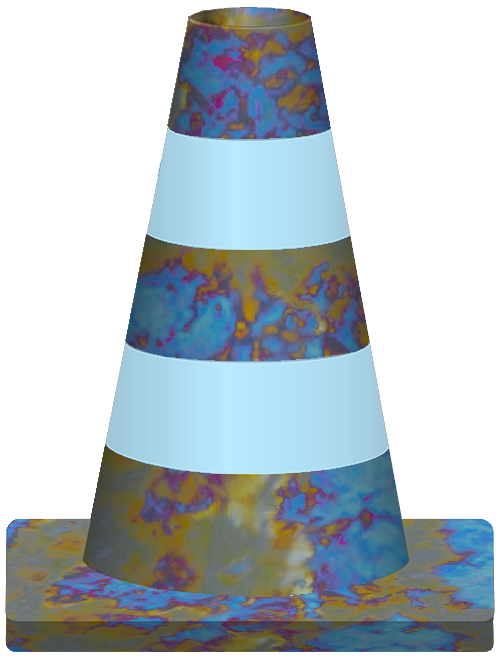
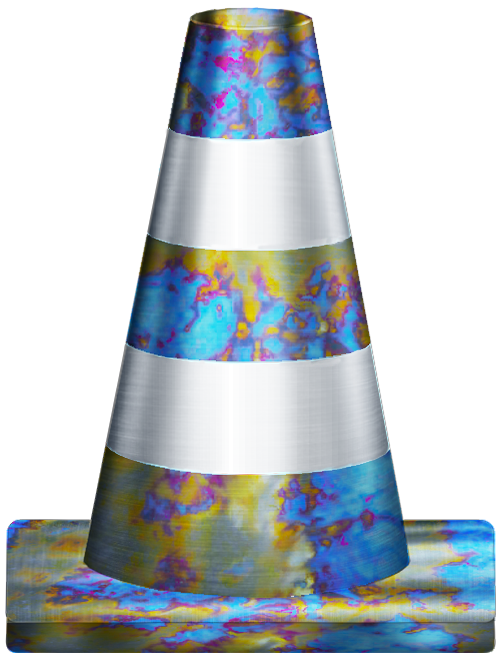
Kermit
- Fixed leaderboard
- Fixed gold cone

- Changed gold + case hardened design thanks to likedom

- added 2 new skins thanks to likedom

diff --git a/public/leaderboard.html b/public/leaderboard.html
@@ -5,37 +5,33 @@
     <meta name="viewport" content="width=device-width, initial-scale=1.0">
     <title>ConeFlip Leaderboard</title>
     <style>
-        /* Reset default margins and paddings */
         * {
             margin: 0;
             padding: 0;
             box-sizing: border-box;
         }
 
-        /* Leaderboard container */
         .leaderboard-container {
             position: fixed;
-            top: 20px; /* Distance from the top */
-            right: 20px; /* Distance from the right */
-            width: 350px; /* Adjust width as needed */
-            background: rgba(0, 0, 0, 0.6); /* Semi-transparent black background */
+            top: 20px;
+            right: 20px;
+            width: 350px;
+            background: rgba(0, 0, 0, 0.6);
             border-radius: 10px;
             padding: 10px 15px;
             box-shadow: 0 4px 8px rgba(0, 0, 0, 0.3);
-            z-index: 1000; /* Ensure it stays on top */
+            z-index: 1000;
             font-family: 'Segoe UI', Tahoma, Geneva, Verdana, sans-serif;
             color: #fff;
         }
 
-        /* Title */
         .leaderboard-container h2 {
             font-size: 18px;
             text-align: center;
             margin-bottom: 10px;
-            color: #FFD700; /* Gold color for title */
+            color: #94B658;
         }
 
-        /* Leaderboard table */
         table {
             width: 100%;
             border-collapse: collapse;
@@ -51,19 +47,17 @@
         th {
             border-bottom: 1px solid #555;
             font-weight: normal;
-            color: #FFD700; /* Gold color for headers */
+            color: #94B658;
         }
 
         tr:nth-child(even) {
             background: rgba(255, 255, 255, 0.1);
         }
 
-        /* Top player row */
         .top-player {
-            background: rgba(255, 215, 0, 0.2); /* Light gold tint */
+            background: rgba(255, 215, 0, 0.2);
         }
 
-        /* Golden cone icon */
         .golden-cone {
             width: 16px;
             height: 16px;
@@ -71,7 +65,10 @@
             margin-right: 6px;
         }
 
-        /* Responsive adjustments */
+        .placeholder-row {
+            color: rgba(255, 255, 255, 0.3);
+        }
+
         @media (max-width: 600px) {
             .leaderboard-container {
                 width: 200px;
@@ -108,102 +105,76 @@
                     <th>WR (%)</th>
                 </tr>
             </thead>
-            <tbody>
-                <!-- Leaderboard data will be inserted here -->
-            </tbody>
+            <tbody></tbody>
         </table>
     </div>
-
-    <!-- Golden Cone Image (Hidden Clone for Cloning) -->
     <img id="golden-cone-icon" src="skins/cone_gold.png" alt="Golden Cone" style="display: none;">
-
-    <!-- Include Socket.io client library -->
     <script src="/socket.io/socket.io.js"></script>
-
     <script>
-        // Connect to server via Socket.io
         const socket = io();
 
-        /**
-         * Function to render the leaderboard table.
-         * @param {Object} data - The leaderboard data and top player.
-         */
         function renderLeaderboard(data) {
             const tableBody = document.querySelector('#leaderboard-table tbody');
-            tableBody.innerHTML = ''; // Clear existing data
+            tableBody.innerHTML = '';
 
-            if (!data) {
-                const row = document.createElement('tr');
-                const cell = document.createElement('td');
-                cell.colSpan = 3; // Updated from 4 to 3
-                cell.textContent = 'No data available.';
-                cell.style.textAlign = 'center';
-                cell.style.color = '#fff';
-                row.appendChild(cell);
-                tableBody.appendChild(row);
-                return;
+            if (!data || !data.length) {
+                data = [];
             }
 
-            // Display only top 5 players
             const topPlayers = data.slice(0, 5);
 
             topPlayers.forEach((player, index) => {
                 const row = document.createElement('tr');
-
-                // Check if this player is the top player
-                const isTopPlayer = (player.name === data.topPlayer);
-
-                // Add class if top player
-                if (isTopPlayer) {
+                if (index === 0) {
                     row.classList.add('top-player');
                 }
 
-                // Player Name Cell
                 const nameCell = document.createElement('td');
-
-                if (isTopPlayer) {
-                    // Clone the golden cone icon
+                if (index === 0) {
                     const coneIcon = document.getElementById('golden-cone-icon').cloneNode();
                     coneIcon.style.display = 'inline';
                     coneIcon.classList.add('golden-cone');
                     nameCell.appendChild(coneIcon);
                 }
-
                 const nameText = document.createElement('span');
-                nameText.textContent = player.name;
+                nameText.textContent = player.name || '-';
                 nameCell.appendChild(nameText);
-
                 row.appendChild(nameCell);
 
-                // Wins Cell
                 const winsCell = document.createElement('td');
-                winsCell.textContent = player.wins;
+                winsCell.textContent = player.wins || '-';
                 row.appendChild(winsCell);
 
-                // Wins Cell
                 const lossesCell = document.createElement('td');
-                lossesCell.textContent = player.fails;
+                lossesCell.textContent = player.fails || '-';
                 row.appendChild(lossesCell);
 
-                // Win Rate Cell
                 const winrateCell = document.createElement('td');
-                winrateCell.textContent = player.winrate;
+                winrateCell.textContent = player.winrate || '-';
                 row.appendChild(winrateCell);
 
                 tableBody.appendChild(row);
             });
+
+            const placeholdersNeeded = 5 - topPlayers.length;
+            for (let i = 0; i < placeholdersNeeded; i++) {
+                const placeholderRow = document.createElement('tr');
+                placeholderRow.classList.add('placeholder-row');
+
+                for (let j = 0; j < 4; j++) {
+                    const placeholderCell = document.createElement('td');
+                    placeholderCell.textContent = '-';
+                    placeholderRow.appendChild(placeholderCell);
+                }
+
+                tableBody.appendChild(placeholderRow);
+            }
         }
 
-        /**
-         * Function to fetch leaderboard data from the server.
-         * (Optional: If you want to fetch initially without waiting for socket event)
-         */
         async function fetchLeaderboard() {
             try {
                 const response = await fetch('/api/leaderboard');
-                if (!response.ok) {
-                    throw new Error('Network response was not ok');
-                }
+                if (!response.ok) throw new Error('Failed to fetch leaderboard');
                 const data = await response.json();
                 return data;
             } catch (error) {
@@ -212,21 +183,24 @@
             }
         }
 
-        /**
-         * Initial load of the leaderboard.
-         * (Optional: If you want to fetch initially without waiting for socket event)
-         */
         async function loadLeaderboard() {
             const data = await fetchLeaderboard();
-            renderLeaderboard(data);
+            if (data && data.length) {
+                renderLeaderboard(data);
+            } else {
+                renderLeaderboard([]);
+            }
         }
 
-        // Listen for 'leaderboard' events from the server and update the table
-        socket.on('leaderboard', function (data) {
-            renderLeaderboard(data);
+        socket.on('leaderboard', data => {
+            loadLeaderboard();
+            if (data && data.length) {
+                renderLeaderboard(data);
+            } else {
+                console.error('Received invalid leaderboard data via socket:', data);
+            }
         });
 
-        // Optional: Initial fetch to display current leaderboard immediately
         loadLeaderboard();
     </script>
 </body>

diff --git a/app.js b/app.js
@@ -18,7 +18,9 @@ const CONFIG = {
         'casehardened',
         'inverted',
         'negative',
-        'ahegao'
+        'ahegao',
+        'fade',
+        'tigertooth'
     ]
 };
 
@@ -132,7 +134,7 @@ class LeaderboardManager {
         }
 
         const newData = await this.updateLeaderboard(data);
-        return { topPlayer: newData[0].name };
+        return { topPlayer: newData[0].name || null };
     }
 
     static sortLeaderboard(data) {
@@ -174,7 +176,9 @@ class SkinsManager {
 io.on('connection', async (socket) => {
     try {
         const data = await LeaderboardManager.getLeaderboard();
-        socket.emit('goldSkin', { topPlayer: data[0].name });
+        
+        const topPlayer = data[0].name || null;
+        socket.emit('goldSkin', { topPlayer: topPlayer });
         socket.emit('leaderboard', { data });
 
         const updateStateHandler = async (playerName, isWin) => {

diff --git a/public/index.html b/public/index.html
@@ -58,6 +58,9 @@
             inverted: 'skins/cone_inverted.png',
             negative: 'skins/cone_negative.png',
             ahegao: 'skins/cone_ahegao.png',
+            fade: 'skins/cone_fade.png',
+            tigertooth: 'skins/cone_tigertooth.png',
+
         };
 
         let playerSkins = {};
